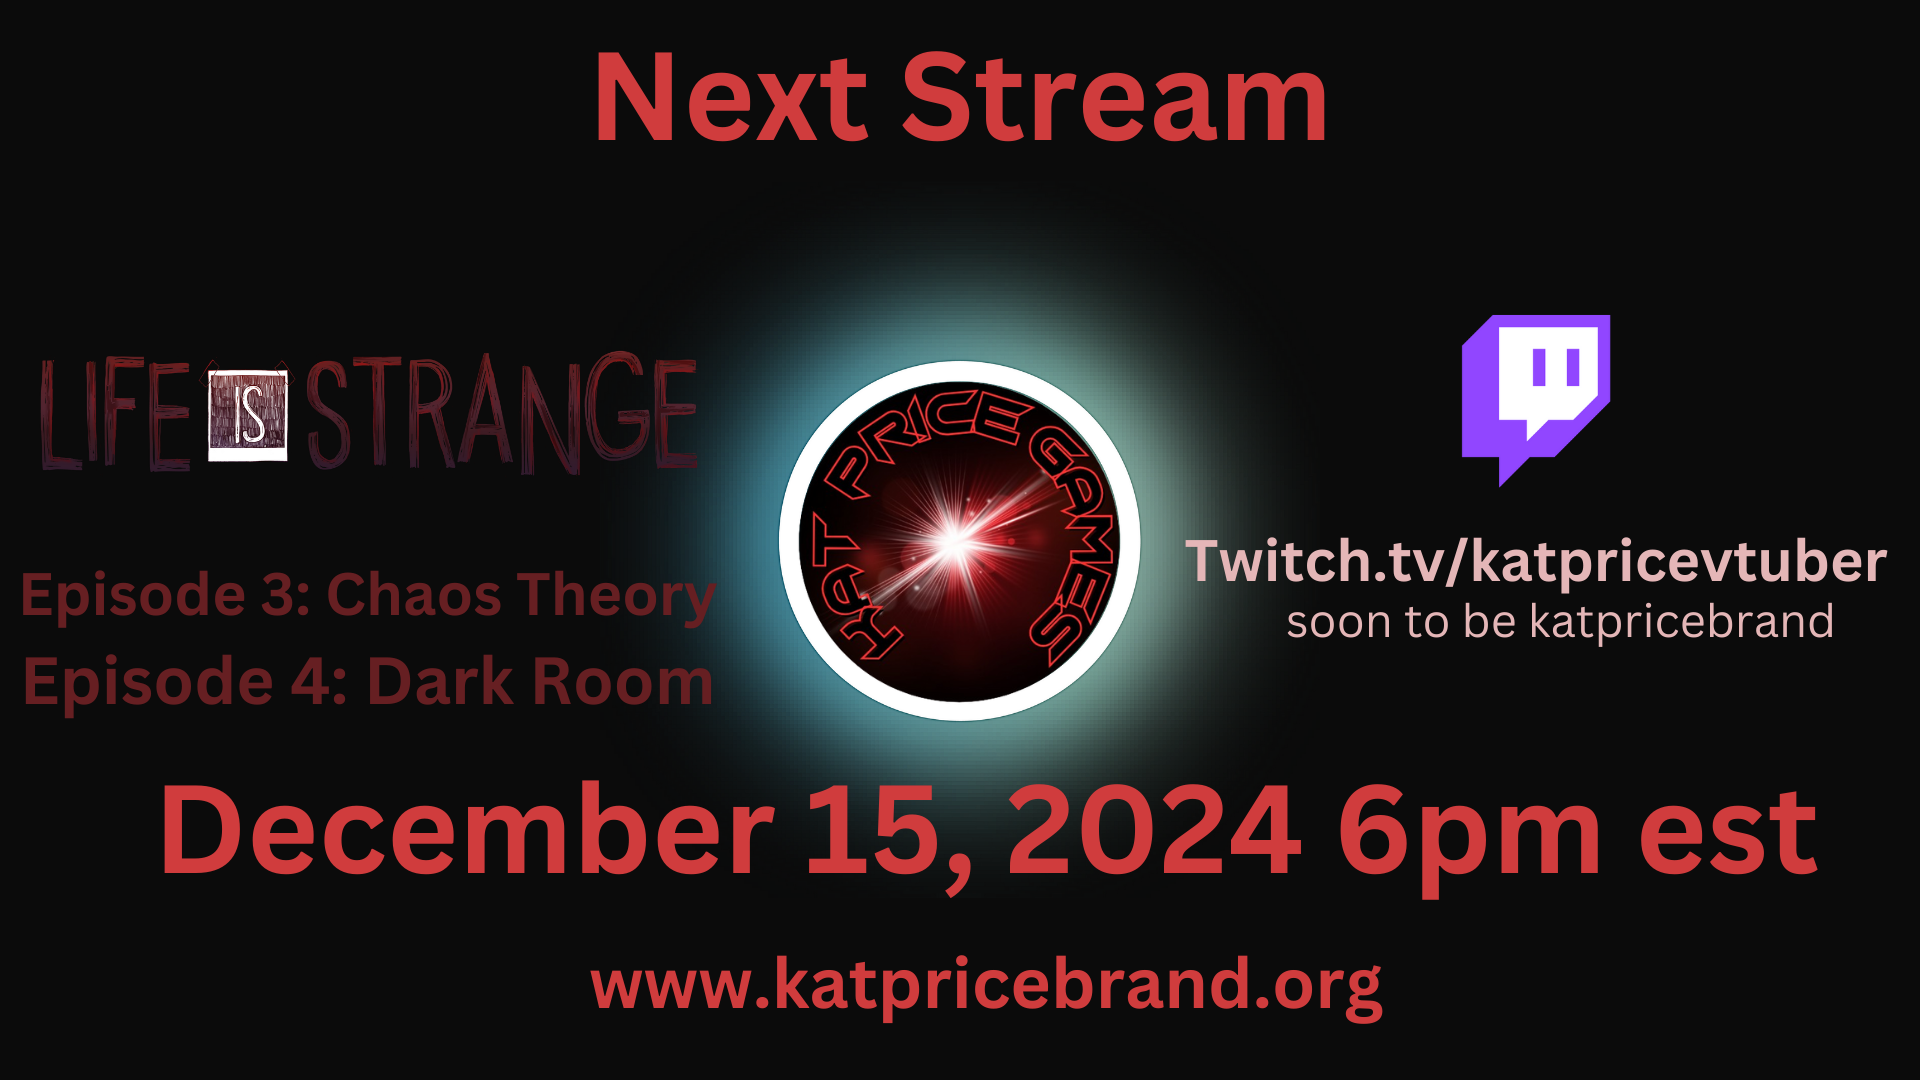
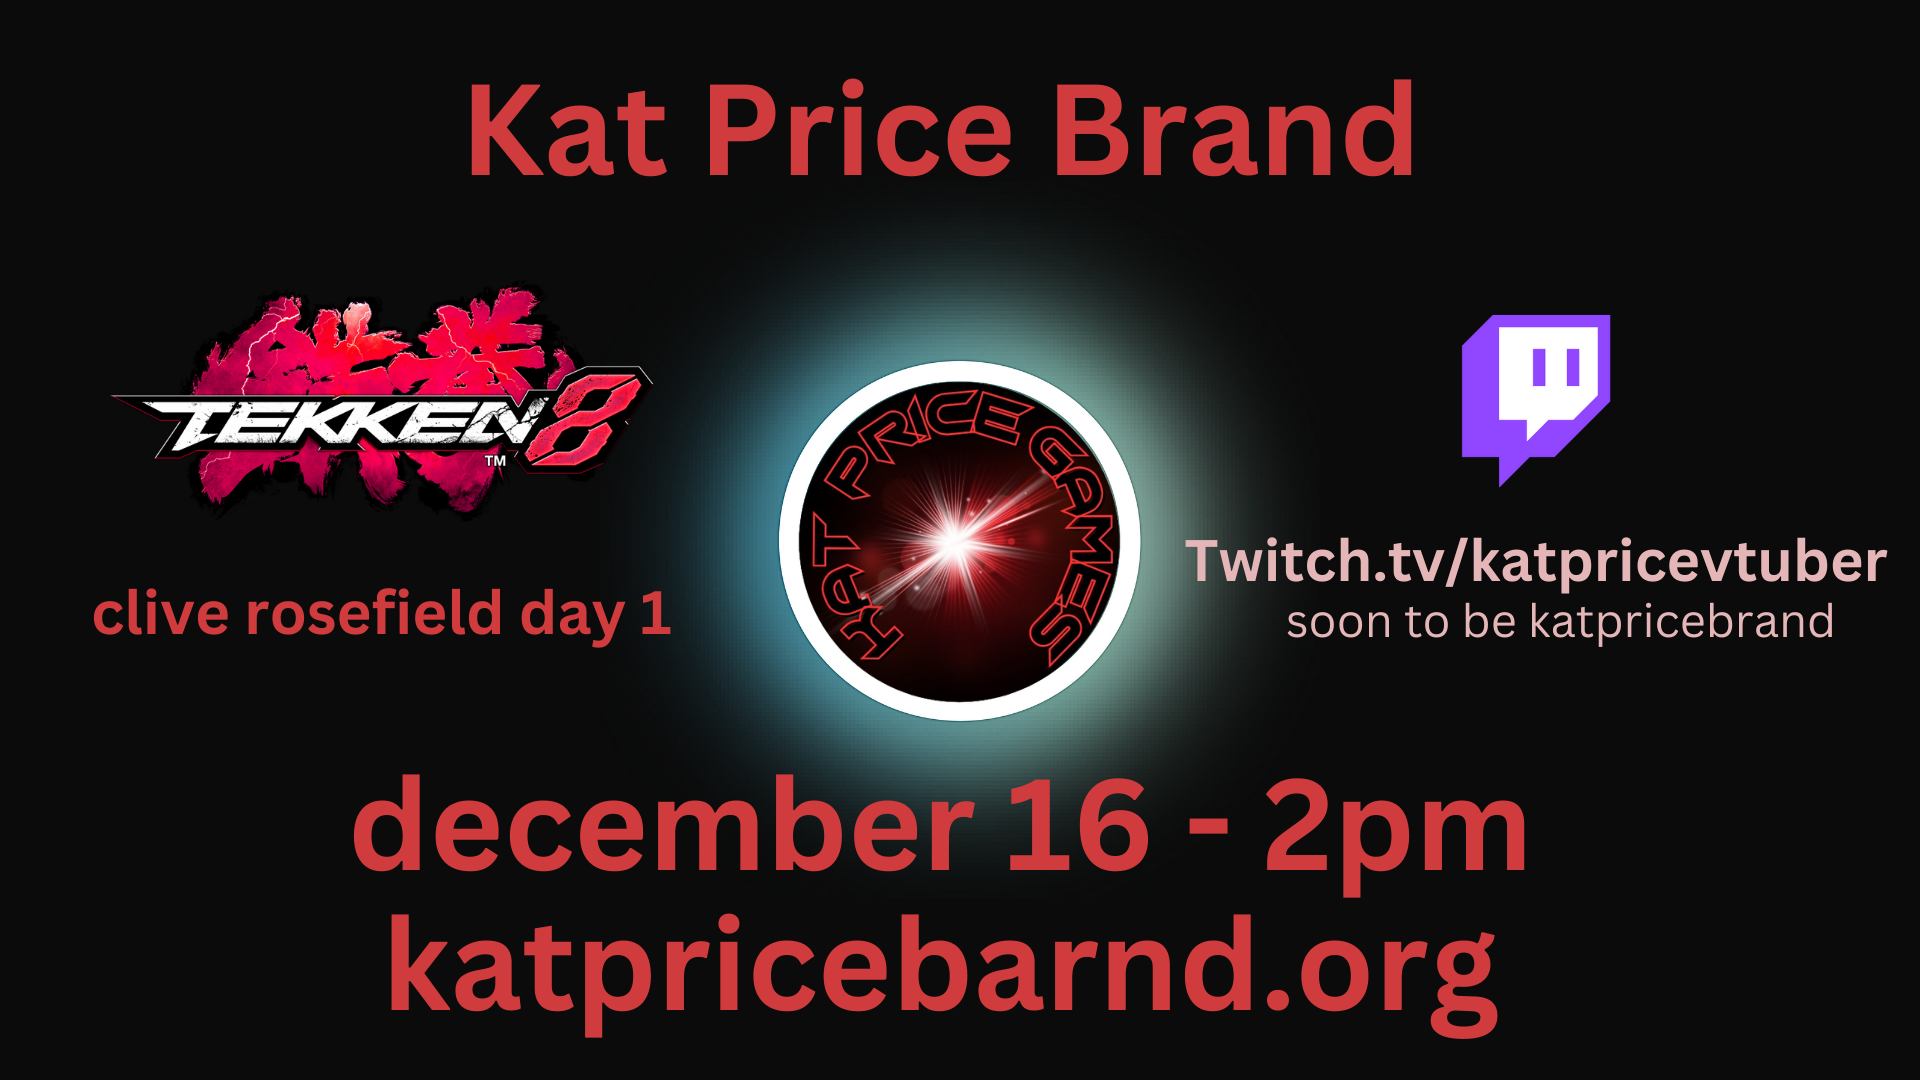
making some changes on the past stream page to show a gallary of all the past streams

diff --git a/KPS/archives.html b/KPS/archives.html
@@ -24,8 +24,23 @@
     <main>
         <section class="content-section">
             <h1>Stream Archives</h1>
+            <div class="video-gallery">
+                <!-- Thumbnails for each video -->
+                <div class="video-thumbnail" data-video-id="cU930hgTQYY">
+                    <img src="https://img.youtube.com/vi/cU930hgTQYY/0.jpg" alt="Video 1">
+                </div>
+                <div class="video-thumbnail" data-video-id="qHTUAK1vgP8">
+                    <img src="https://img.youtube.com/vi/qHTUAK1vgP8/0.jpg" alt="Video 2">
+                </div>
+                <div class="video-thumbnail" data-video-id="Wp7dx8oKfD8">
+                    <img src="https://img.youtube.com/vi/Wp7dx8oKfD8/0.jpg" alt="Video 3">
+                </div>
+            </div>
+        
+            <!-- Video container where the selected video will be embedded -->
             <div class="video-container">
-                <iframe src="https://www.youtube.com/embed/cU930hgTQYY?si=cvBddNsrsCTRqkKA" 
+                <iframe id="video-player" 
+                        src="https://www.youtube.com/embed/cU930hgTQYY?si=cvBddNsrsCTRqkKA" 
                         title="YouTube video player" 
                         frameborder="0" 
                         allow="accelerometer; autoplay; clipboard-write; encrypted-media; gyroscope; picture-in-picture; web-share" 
@@ -34,6 +49,7 @@
                 </iframe>
             </div>
         </section>
+        
     </main>
 
     <footer>

diff --git a/KPS/css/streams.css b/KPS/css/streams.css
@@ -91,24 +91,37 @@ h1 {
 }
 
 /* Video Container */
+/* Style for video gallery thumbnails */
+.video-gallery {
+    display: flex;
+    gap: 15px;
+    margin-bottom: 20px;
+    overflow-x: scroll;
+}
+
+.video-thumbnail {
+    cursor: pointer;
+    width: 200px;
+    height: 113px; /* YouTube thumbnail ratio */
+}
+
+.video-thumbnail img {
+    width: 100%;
+    height: 100%;
+    object-fit: cover;
+}
+
 .video-container {
     position: relative;
     width: 100%;
-    padding-bottom: 56.25%; /* 16:9 Aspect Ratio */
-    height: 0;
-    overflow: hidden;
-    margin: 0 auto;
-    max-width: 1100px;
+    max-width: 960px; /* Adjust size as needed */
+    margin: auto;
 }
 
-.video-container iframe {
-    position: absolute;
-    top: 0;
-    left: 0;
+#video-player {
     width: 100%;
-    height: 100%;
-    border-radius: 8px;
-    box-shadow: 0 4px 8px rgba(96, 5, 2, 0.2);
+    height: 540px;
+    border: none;
 }
 
 /* Promo Container */

diff --git a/KPS/streams.html b/KPS/streams.html
@@ -26,7 +26,7 @@
             <h1>Next Stream</h1>
             <div class="promo-container">
                 <div class="stream-info">
-                    <img src="img/next stream.png" alt="Next stream promotional image" class="promo-image">
+                    <img src="img/Stream schedule.png" alt="Next stream promotional image" class="promo-image">
                     <div class="stream-details">
                         <h2>Coming Soon!</h2>
                         <p>Check back for upcoming stream details</p>
